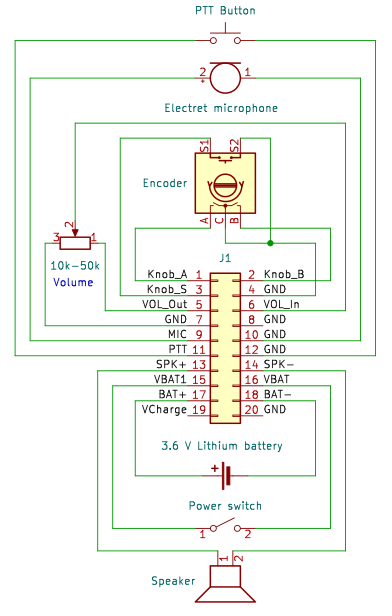
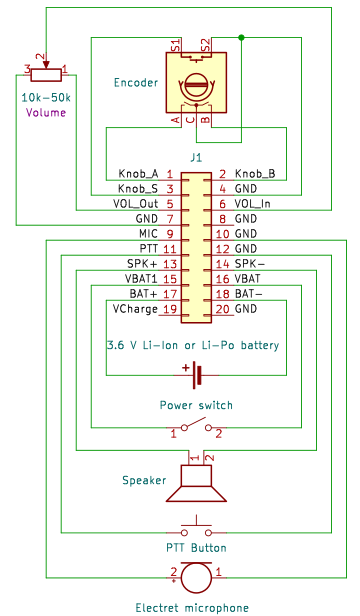
Make wiring diagram more clear

Changed region(s): [[0.0306, 0.0, 0.9778, 1.0], [0.825, 0.0617, 0.8556, 0.0925]]

diff --git a/hardware_v2/README.md b/hardware_v2/README.md
@@ -4,8 +4,10 @@
 
 ### Gekkokapula board
 The Gekkokapula PCB v2.1 contains most of the electronics.
-All bigger and more "mechanical" parts are wired to pin
-headers on the board. This lets you choose any enclosure
+All SMD components are already placed on the board, so
+you only need to hand solder some through hole pin headers.
+All bigger and more "mechanical" parts are wired to these
+pin headers. This lets you choose any enclosure
 you like and arrange all the knobs, buttons and connectors
 the way you like.
 
@@ -26,6 +28,7 @@ additional mechanical support and ground pins.
 ### Encoder
 The most important part of the user interface is a quadrature
 encoder with a push button.
+Connect one as shown in the wiring diagram above.
 
 ### Speaker
 Connect a speaker between SPK+ and SPK- pins
